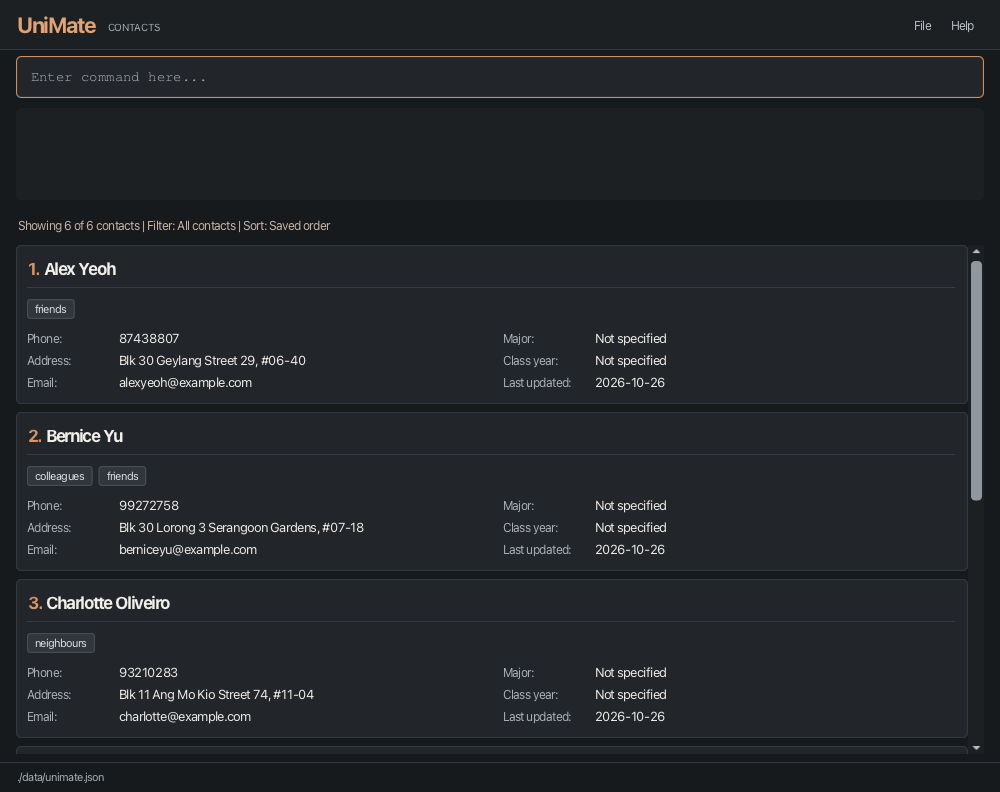
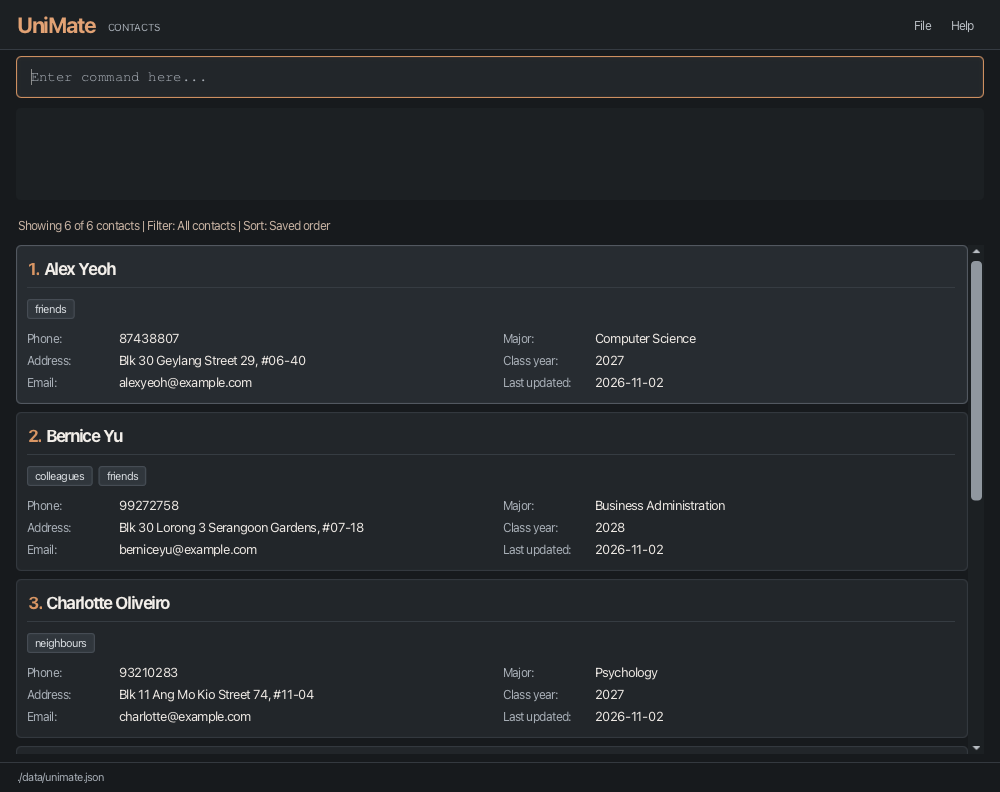
Address beta-testing documentation feedback
Fixes #210.

Developer Guide:
* Remove the v1.5 manual-test result notes and the long-email test log.
* Add sel-couth-ene's AI-assistance declaration.
* Add planned enhancements for name spacing, name characters and
  phone formats.
* Trim colour, pixel and repeated variation checks from the
  manual-testing appendix.

User Guide:
* Document the add command's d/ prefix.
* Warn that File > Exit also discards unsaved changes.
* Simplify the email-length note and remove testing notes.

Retake Ui.png and findAlexDavidResult.png with current sample data.

Changed region(s): [[0.589, 0.6364, 0.713, 0.697], [0.589, 0.4242, 0.682, 0.4848], [0.589, 0.8485, 0.682, 0.9091]]

diff --git a/docs/DeveloperGuide.md b/docs/DeveloperGuide.md
@@ -42,6 +42,9 @@ Notable uses of AI:
   including the documentation sections and diagrams marked with `RayWHJ` author tags.
 * OpenAI Codex assisted @RayWHJ with implementing and testing the UniMate message wording, shared empty-field
   formatting and validation of commands that take no parameters, and with writing the related manual tests.
+* @sel-couth-ene used Claude Code to draft and review save-failure error messages, the removal of unreachable
+  assertions from `EditCommand` and `CommandHistory`, a post-merge test stub fix, and Developer Guide text on
+  `find` matching, undo view reset, unbounded history and save-failure behaviour.
 * @zruixuan used OpenAI Codex and ChatGPT to assist with implementing and modifying Java features,
   writing and improving unit and integration tests, developing GUI functionality, creating and simplifying
   UML class diagrams, drafting and revising the User Guide and Developer Guide, and debugging, reviewing
@@ -525,10 +528,7 @@ but is not executed by the validator. Accepted values remain unchanged, includin
 final-label restriction requiring two adjacent letters/digits; correcting that restriction remains
 listed under [Planned enhancements](#appendix-planned-enhancements).
 
-`EmailTest` covers long valid/invalid local and domain parts and compares short inputs against the
-reference regex. `LongEmailStorageTest` exercises Add/Edit and JSON round trips, and verifies that
-invalid long inputs leave existing contacts unchanged. An isolated fresh-JVM check also verified
-that `MainApp#init` can load saved contacts containing the original long-email reproduction.
+`EmailTest` and `LongEmailStorageTest` cover long valid and invalid emails through validation, `add`/`edit` and saving.
 `ResultDisplay.fxml` enables text wrapping so narrow windows do not require horizontal scrolling.
 
 The replacement `Person` retains notes and favourite status. Changes to name, phone, email, address,
@@ -2096,8 +2096,6 @@ after an edit, undo, redo or restart before using its displayed index again.
 <br>
 3. Help window without an internet connection
 
-   **Result:** Passed on macOS, Linux and Windows (v1.5 development build).
-
    1. Turn off Wi-Fi and unplug any network cable. Launch the app.
    2. Press F1, or run `help`.
       Expected: The help window opens and shows the User Guide's web address.
@@ -2328,13 +2326,10 @@ clear and modify the test contacts. Run each scenario's steps in order.
       Expected: The addition succeeds. The normal `New person added: ...` message remains complete and
       includes Amy's saved details. An appended line in the same feedback box reads
       `Warning - duplicate details detected: #2 Charlie (email); #4 Zara (phone)`.
-      Both lines are amber with no coloured border. The full list is Amy, Charlie, Morgan, Zara.
-      Morgan's missing fields produce no match. Narrow the window to about 640 pixels. The result
-      area retains its 100-pixel height; both lines can be selected and copied. Scrolling is needed
-      only when the wrapped feedback exceeds that area.
+      The full list is Amy, Charlie, Morgan, Zara. Morgan's missing fields produce no match.
    4. Run `undo`, then `redo`.
       Expected: One undo removes Amy and one redo restores Amy. Their feedback describes the addition
-      in light grey without repeating the warning, and Zara, Charlie and Morgan retain their original details.
+      without repeating the warning, and Zara, Charlie and Morgan retain their original details.
    5. Close and reopen the disposable copy, then run `find Amy`.
       Expected: Amy was saved with the entered phone and uppercase email. Sorting and filtering
       return to their usual restart defaults.
@@ -2342,19 +2337,11 @@ clear and modify the test contacts. Run each scenario's steps in order.
 2. Empty details and both fields matching the same contact
 
    1. Run `add n/NoDetails a/NUS`.
-      Expected: The contact is added with ordinary light grey success feedback. Its missing phone and email
-      do not trigger a warning about Morgan's missing details.
+      Expected: The contact is added without a warning. Its missing phone and email do not match
+      Morgan's missing details.
    2. Run `add n/AnotherZara p/91919191 e/zara172@example.com a/Dover`.
       Expected: The addition succeeds with a warning. Zara appears once with the reason
       `phone and email`; Amy is also listed for sharing the phone number.
-   3. While a warning is showing, run `sort name sideways`, then `list`.
-      Expected: The invalid command replaces the warning with the usual light grey error feedback and input
-      styling. `list` shows ordinary light grey success feedback. Neither command changes saved contacts.
-   4. Repeat a shared-details addition with a deliberately long address (for example, ten repetitions
-      of Lower Kent Ridge Road) in the disposable copy, then narrow the window.
-      Expected: The complete ordinary success message and appended warning appear amber in the
-      original text area, starting at the top. All names, displayed indices and reasons remain
-      complete; the existing vertical scrollbar reveals any wrapped overflow.
 
 ### Shared phone or email warnings on edit
 
@@ -2369,37 +2356,32 @@ clear and modify the test contacts. Run each scenario's steps in order.
       Expected: The edit succeeds and the input clears. `Edited EditWarning Bob:` and the changed
       phone line appear first, followed by `Warning - duplicate details detected: #N EditWarning Alice (phone)`.
       `N` is Alice's current displayed index in the refreshed full sorted list, not necessarily her
-      previous index in the two-contact view. The complete feedback appears amber in the original feedback box,
-      with no coloured border or additional warning control.
+      previous index in the two-contact view.
    4. Run `undo`, then `redo`.
       Expected: One undo restores Bob's previous phone and one redo restores the shared phone.
-      Both use ordinary light grey edit-history feedback without repeating the warning. Alice remains unchanged.
+      Neither repeats the warning. Alice remains unchanged.
    5. Run `find EditWarning`, confirm Bob's displayed index, then edit that index with
       `e/ALICE.EDITWARNING@EXAMPLE.COM t/StudyGroup`.
       Expected: `Edited EditWarning Bob:` is followed by the email difference, then
       `Tags replaced. Removed: None. Added: StudyGroup.` The final warning line identifies Alice for
-      `(email)` only; the already-shared unchanged phone is not reported as newly shared. All feedback
-      lines appear amber in the original feedback box. The uppercase email and replacement tags are saved unchanged.
+      `(email)` only; the already-shared unchanged phone is not reported as newly shared. The uppercase
+      email and replacement tags are saved unchanged.
    6. Run `undo`, then `redo`.
       Expected: One undo restores both Bob's previous email and tags; redo restores both changes.
-      Feedback remains light grey and includes only the base edited-contact details, not the tag summary
-      or duplicate-details warning.
-   7. Rename Bob while changing a contact method to another shared value, then inspect the full sorted list.
-      Expected: The change summary identifies his new name and lists only actual differences; the warning
-      still uses the matching contacts' refreshed indices even if the renamed contact has moved.
+      Feedback includes only the base edited-contact details, not the tag summary or duplicate-details warning.
 <br>
 2. Unchanged, unrelated and empty values
 
    1. Before each check, find the edited contact and use its actual displayed index.
    2. Repeat the current phone value, change only the major with `m/Mathematics`, or change only
       the email's capitalization.
-      Expected: Light grey changed-field feedback for actual changes, or `No changes made to NAME.
+      Expected: Changed-field feedback for actual changes, or `No changes made to NAME.
       The supplied values match the existing details.` for an unchanged edit. Existing shared values
       do not cause a warning. An unchanged edit preserves undo and redo.
    3. Clear a contact method with `p/` or `e/`.
-      Expected: Ordinary light grey success feedback; empty values do not match other empty contact methods.
+      Expected: Success without a warning; empty values do not match other empty contact methods.
    4. Change only tags with `t/StudyGroup`, then clear them with `t/`, checking the displayed index before each edit.
-      Expected: A changed tag set produces the removed/added summary in light grey, with `None`
+      Expected: A changed tag set produces the removed/added summary, with `None`
       for an empty difference. An unchanged set produces no tag summary. Existing shared phone/email values do not trigger a warning for these tag-only edits.
    5. Close and reopen the disposable copy.
       Expected: Edited values persist; the warnings did not modify or merge any other contact.
@@ -2449,9 +2431,9 @@ clear and modify the test contacts. Run each scenario's steps in order.
    1. Prerequisites: Ensure `AcademicInvalid` does not exist. Use
       `add n/AcademicInvalid p/91234567 e/invalid@example.com a/10 Kent Ridge Road` as the base command
       and append each suffix below separately.
-   2. Test cases: `m/`, `m/   `, `c/`, `c/   `.
+   2. Test cases: `m/`, `c/   `.
       Expected: A major or class-year validation error is shown. No contact is added.
-   3. Test cases: `c/1999`, `c/2100`, `c/202`, `c/20270`, `c/abcd`.
+   3. Test cases: `c/1999`, `c/2100`, `c/abcd`.
       Expected: A class-year validation error is shown. No contact is added.
    4. Test cases: `m/Computer Science m/Mathematics`, `c/2027 c/2028`.
       Expected: A repeated-prefix error is shown. No contact is added, and existing contacts are unchanged.
@@ -2661,19 +2643,12 @@ clear and modify the test contacts. Run each scenario's steps in order.
    2. Run `filter t/SortDemo`, then `sort name asc`.
       Expected: `sortAlpha`, `SortBeta`, `SortGamma`. The status shows `Showing 3 of N contacts`
       (`N` is the total saved count), `Filter: Tag: SortDemo` and `Sort: Name ascending`.
-   3. Run `shownote 1`.
-      Expected: The result display shows the note or no-note feedback; the status remains unchanged.
-   4. Run `sort reset` twice.
-      Expected: Both commands succeed. Only the three demo contacts remain visible, in saved order:
+   3. Run `sort reset`.
+      Expected: Only the three demo contacts remain visible, in saved order:
       `SortGamma`, `SortBeta`, `sortAlpha`. The status shows `Sort: Saved order`.
-   5. Run `sort name desc`, then `list`.
+   4. Run `sort name desc`, then `list`.
       Expected: All contacts return, still sorted by descending name. The status shows equal counts,
       `Filter: All contacts` and `Sort: Name descending`. Run `sort reset` to restore saved order.
-   6. Run `filter t/SortDemo`, then try `sort reset desc`.
-      Expected: A usage error; the active filter, saved order and status remain unchanged.
-   7. Run `filter m/Computer Science and Information Systems c/2027 t/SortDemo` and narrow the window.
-      Expected: Long status text wraps within the window; all criteria and the sort description remain
-      readable. Zero matches, if any, show `Showing 0 of N contacts` without deleting saved contacts.
 <br>
 5. Latest update date
 
@@ -2696,20 +2671,7 @@ clear and modify the test contacts. Run each scenario's steps in order.
       Expected: `UpdatedAlpha` changes phone and receives today's date, moving after the two older contacts.
       It was third in saved order but is targeted using the first displayed card.
       Run `sort updated desc`: `UpdatedAlpha`, `UpdatedGamma`, `UpdatedBeta` appear.
-   4. Run `undo`, then `filter t/UpdateSortDemo`.
-      Expected: `UpdatedAlpha` regains its original phone and date; descending order becomes
-      `UpdatedGamma`, `UpdatedAlpha`, `UpdatedBeta`. Run `sort updated asc`, then `redo`, then reapply
-      the filter: the edited phone/date return, with `UpdatedBeta`, `UpdatedGamma`, `UpdatedAlpha`
-      in ascending order. Sorting has not consumed undo history or cleared redo.
-   5. Try `sort updated`, `sort updated ascending` and `sort updated desc extra` separately.
-      Expected: Usage errors; the filter, order, dates and status remain unchanged.
-      Run `sort reset`: only the matching contacts remain, in saved order
-      `UpdatedGamma`, `UpdatedBeta`, `UpdatedAlpha`.
-   6. Close and reopen UniMate, then run `filter t/UpdateSortDemo`.
-      Expected: The same saved order and edited phone/date remain. The temporary sort is reset and
-      status ends with `Sort: Saved order`.
-
-   7. Close UniMate and remove `UpdatedGamma`'s `lastUpdated` property from the disposable data file.
+   4. Close UniMate and remove `UpdatedGamma`'s `lastUpdated` property from the disposable data file.
       Relaunch, run `filter t/UpdateSortDemo`, then try `sort updated asc` and `sort updated desc`.
       Expected: `UpdatedGamma` shows `Last updated: Unknown` and stays last in both directions.
       Saving and restarting preserve its unknown date; an actual basic-profile edit records today's date.
@@ -3045,24 +3007,13 @@ Use only the separate test folder for these checks. The paths below are relative
    1. With the app closed, use a disposable test folder and retain the valid backup. Test each of these
       file contents separately in `data/unimate.json`:
 
-      * `{"persons":[null]}`
-      * `{"persons":[{"name":"Null Tag","address":"NUS","tags":[null]}]}`
       * `null`
+      * a valid contact followed by `null` in the same `persons` array
    2. Relaunch the app without entering a command.
       Expected: The GUI opens with an empty contact list and a recovery warning; contact saving is
-      disabled, and the loading error is logged. Running `list` leaves the invalid file unchanged.
-      For the first two files, the log identifies `Contact entry 1 is null.` and
-      `Contact entry 1 is invalid: Tag entry 1 is null.`, respectively.
-      The original invalid file remains unchanged.
-   3. Close the window using its close button and inspect the file.
-      Expected: It still contains the original invalid data. Restore the backup before the next case.
-   4. Repeat with a valid contact followed by a null entry in the same `persons` array.
-      Expected: The whole file is rejected; the valid contact is not partially loaded. The logged
-      error is `Contact entry 2 is null.`.
-   5. Repeat with a valid contact followed by a contact whose `tags` array is `["friends",null]`.
-      Expected: The whole file is rejected, and the log identifies
-      `Contact entry 2 is invalid: Tag entry 2 is null.`. Positions count entries from 1 in saved-file order.
-   6. Separately test `{"persons":[]}` and a valid older contact with omitted optional fields.
+      disabled, and the valid contact is not partially loaded. For the second file, the log identifies
+      `Contact entry 2 is null.`. Close the window and confirm the file is unchanged, then restore the backup.
+   3. Separately test `{"persons":[]}` and a valid older contact with omitted optional fields.
       Expected: The empty list loads normally, and the older contact loads with unspecified optional details.
 <br>
 6. Loading a file saved under the old filename
@@ -3090,9 +3041,6 @@ Use only the separate test folder for these checks. The paths below are relative
       Close the app and restore the backup before continuing.
 
 ### Testing a permission-denied save
-
-**Result:** Passed on macOS, Linux and Windows (v1.5 development build). On macOS, the permission
-message appeared, `PermCheck` was shown in memory, and the read-only file was left unchanged.
 
 Use a disposable test folder only.
 
@@ -3172,6 +3120,25 @@ Each item below is a planned fix for a limitation listed in
    *Planned fix:* add a `.result-display:focused` rule that draws a border in the existing
    `-fx-focus-color` (orange), matching the outline used for expandable contact values.
 
+4. **Treat names differing only in internal spacing as duplicates.**
+   `Person#isSamePerson` compares names with `equalsIgnoreCase`, so `Alice Tan` and `Alice  Tan` are
+   saved as separate contacts that look almost identical on their cards.
+   *Planned fix:* collapse runs of spaces in `ParserUtil.parseName` and compare collapsed names in
+   `isSamePerson`, so `add` and `edit` reject such names as duplicates. A saved file containing both
+   forms is rejected on load in the same way as existing case-only duplicates.
+
+5. **Accept common punctuation and non-ASCII letters in names.**
+   `Name.VALIDATION_REGEX` allows only ASCII letters, digits and spaces, so `Mary-Jane O'Neil`,
+   `Rajesh s/o Kumar`, `José` and `李小龙` are rejected.
+   *Planned fix:* allow Unicode letters and marks, plus `-`, `'`, `.` and `/` between letters, and
+   update `Name.MESSAGE_CONSTRAINTS` to list them. `s/o` needs no parser change because `s/` is not a
+   prefix; `d/o` would still be read as the `d/` prefix in `add`.
+
+6. **Accept international phone formats and limit phone length.**
+   `Phone.VALIDATION_REGEX` is `\d{3,}`, so `+6591234567` is rejected while a 30-digit number is accepted.
+   *Planned fix:* allow one leading `+`, and limit numbers to 3–15 digits, the maximum length of an
+   international number. Update `Phone.MESSAGE_CONSTRAINTS` to match.
+
 --------------------------------------------------------------------------------------------------------------------
 
 ## Appendix: Known limitations
@@ -3189,6 +3156,9 @@ These are described in detail, with their planned fixes, in
 | A final domain label containing a hyphen needs two characters on one side, so `a@x.y-z` is rejected. | 1 |
 | The command box silently removes pasted tabs and line breaks. | 2 |
 | The message area shows no focus outline. | 3 |
+| Names differing only in internal spacing are not treated as duplicates. | 4 |
+| Names with hyphens, apostrophes, `s/o` or non-ASCII letters are rejected. | 5 |
+| Phone numbers with a leading `+` are rejected, while overly long numbers are accepted. | 6 |
 
 ### Other limitations
 

diff --git a/docs/UserGuide.md b/docs/UserGuide.md
@@ -116,8 +116,8 @@ in the command box.
 For the exception when a selected contact has been scrolled out of view, see
 [Known keyboard limitations](#keyboard).
 Up/Down in the command box still recalls command history.
-Plain Tab and Shift+Tab never enter the message area; use Ctrl+Tab for that. The Ctrl+Tab route
-works on macOS, Linux and Windows. Clicking inside the message area also focuses it.
+Plain Tab and Shift+Tab never enter the message area; use Ctrl+Tab for that. Clicking inside the
+message area also focuses it.
 
 <box type="warning" seamless>
 
@@ -173,7 +173,6 @@ Format: `help`
 * The help window shows the User Guide's web address and a **Copy URL** button. It opens and copies
   the address even without an internet connection.
 * Opening the copied address in a web browser needs an internet connection.
-* Offline use was tested on macOS, Linux and Windows, and works as described.
 * Extra arguments, such as `help 123`, are rejected without opening the help window.
 
 
@@ -194,15 +193,14 @@ Format: `add n/NAME [p/PHONE_NUMBER] [e/EMAIL] a/ADDRESS [m/MAJOR] [c/CLASS_YEAR
 | Major `m/` | Optional, non-blank text on one line. |
 | Class year `c/` | Optional. Four digits from `2000` to `2099`. |
 | Tag `t/` | Optional. English letters and digits, without spaces. Repeat the prefix for multiple tags. |
+| Default tag `d/` | Optional. An integer from `1` to `5` that adds a default tag: `Friend`, `Classmate`, `Teammate`, `Tutor` or `Prof`, respectively. Run [`tags`](#listing-default-tags-tags) to view this list. Repeat the prefix for multiple default tags. |
 
 Omit an optional field when unknown; do not supply an empty value in `add`.
-
-Email validation does not impose a maximum length. Long addresses follow the same format rules
-and can be saved and loaded without a validation stack overflow. Invalid addresses are rejected
-without changing the contact list.
+Emails have no maximum length.
 
 For example, `add n/Alex Tan a/NUS m/Computer Science c/2027` creates a contact
-without a phone or email. Use a name that is not already saved.
+without a phone or email, and `add n/Bea Lim a/NUS t/CS2103T d/2` tags Bea as `CS2103T` and
+`Classmate`. Use a name that is not already saved.
 
 <box type="tip" seamless>
 
@@ -1046,7 +1044,8 @@ Format: `exit`
 
 Extra arguments, such as `exit now`, are rejected and the application stays open.
 
-If a save has failed, use `exit` to retry saving. Closing the window discards any unsaved changes.
+If a save has failed, use `exit` to retry saving. Closing the window or choosing **File** > **Exit**
+discards any unsaved changes.
 
 If saving still fails, UniMate stays open with a recovery message. Fix the saving problem and run `exit` again.
 With no unsaved contact changes, `exit` works even when the data file is read-only.
@@ -1113,8 +1112,6 @@ message, the result box shows one of these errors:
 * `Could not save data to file ... due to insufficient permissions to write to the file or the folder.`
 * `Could not save data due to the following error: ...`
 
-Earlier release testing confirmed read-only contact-save errors on macOS, Linux and Windows.
-The new save and UI recovery regressions were checked on Windows.
 
 When contact changes remain unsaved, the message also explains how to recover. For a new change,
 `undo` reverts it; after an `undo`, `redo` restores it. A failed `list` retry identifies earlier
@@ -1137,8 +1134,8 @@ Follow [Recovery after a loading error](#recovery-after-a-loading-error) before 
 
 **Caution:** A save error does **not** mean a contact change was cancelled. Run `undo` only if you
 want to revert that change. To keep it, fix the cause of the error, then run `list` to save all current
-contacts. Closing with the window's close button before saving discards changes since the last
-successful save.
+contacts. Closing with the window's close button or **File** > **Exit** before saving discards
+changes since the last successful save.
 </box>
 
 ### Editing the data file
@@ -1199,15 +1196,14 @@ remedy or workaround where one exists.
 1. **When using multiple screens**, if you move the application to a secondary screen, and later switch to using only the primary screen, the GUI will open off-screen. The remedy is to delete the `preferences.json` file created by the application before running the application again.
 2. **If you minimize the Help Window** and then run the `help` command (or use the `Help` menu, or the keyboard shortcut `F1`) again, the original Help Window will remain minimized, and no new Help Window will appear. The remedy is to manually restore the minimized Help Window.
 3. **Very long search or filter criteria can hide the contact list.** The status text above the
-   cards grows as it wraps, leaving little or no space for contacts in a small window. This was
-   reproduced on Windows at 450 × 600 with `find StatusProbe` followed by 250 space-separated `a`
-   keywords, and with a long exact-major filter. Contacts are not deleted. Run `list` to restore
-   the contact list, then use a shorter search or filter.
+   cards grows as it wraps, leaving little or no space for contacts in a small window, for example
+   after a search with hundreds of keywords. Contacts are not deleted. Run `list` to restore the
+   contact list, then use a shorter search or filter.
 
 ### Keyboard
 
 4. **The message area shows no focus outline.** After Ctrl+Tab moves focus to the message area, nothing on screen changes. The remedy is to press Down to check (the message scrolls if it has focus), and press Ctrl+Shift+Tab or click the command box before typing. See [Using the contact list](#using-the-contact-list).
-5. **Ctrl+Tab into the message area is standard Java behaviour, not a UniMate shortcut.** UniMate handles only plain Tab and Shift+Tab. Ctrl+Tab and Ctrl+Shift+Tab work because the Java window toolkit that UniMate uses moves focus between controls with them. The route works on macOS, Linux and Windows. Clicking inside the message area also focuses it.
+5. **Ctrl+Tab into the message area is standard Java behaviour, not a UniMate shortcut.** UniMate handles only plain Tab and Shift+Tab. Ctrl+Tab and Ctrl+Shift+Tab work because the Java window toolkit that UniMate uses moves focus between controls with them. Clicking inside the message area also focuses it.
 6. **Tabs and line breaks in pasted text are removed** by the command box before submission, so pasted words can be joined. See [`note`](#adding-or-replacing-a-contact-s-note-note).
 7. **Tab can skip a selected contact that has been scrolled out of view.** If the list has focus
    and you scroll until the selected card is no longer visible, Tab may return to the command box
@@ -1217,7 +1213,7 @@ remedy or workaround where one exists.
 ### Data and saving
 
 8. **If saving the data file fails**, contact changes already applied remain inside UniMate. The save error replaces the usual success message and explains which changes still need saving. For a change made by that command, it names `redo` after `undo`, or `undo` otherwise, to reverse it. To keep the changes, fix the saving problem and run `list` to retry. See [Saving the data](#saving-the-data).
-9. **If pending changes cannot be saved, `exit` keeps UniMate open.** Fix the saving problem, then run `list` to retry saving or `exit` to save and close. `help` still works. With no unsaved contact changes, `exit` works even when the data file is read-only. Using the window's close button discards unsaved changes.
+9. **If pending changes cannot be saved, `exit` keeps UniMate open.** Fix the saving problem, then run `list` to retry saving or `exit` to save and close. `help` still works. With no unsaved contact changes, `exit` works even when the data file is read-only. Using the window's close button or **File** > **Exit** discards unsaved changes.
 
 ### Input
 
